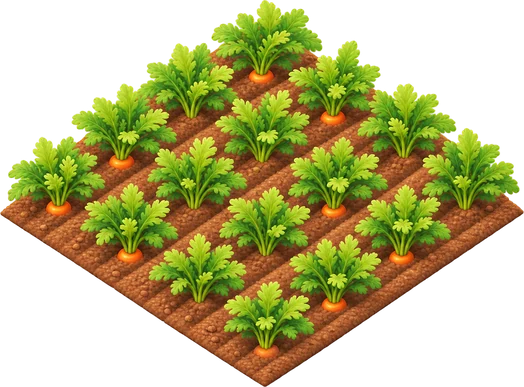
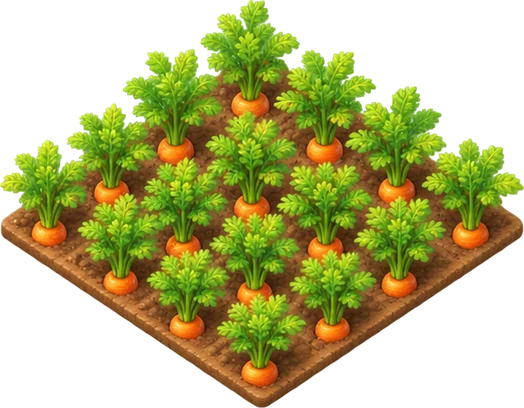
#00646: feat(まち): 町用の畑11種を2:1の絵に入れ替え、乗り物12点・離島の地面を追加(139種類)

diff --git a/frontend/src/components/spru/spru-assets.ts b/frontend/src/components/spru/spru-assets.ts
@@ -235,6 +235,18 @@ export const SPRU_ITEMS = {
   "beehive": { src: "/spru/items/beehive.webp", width: 200, height: 199 },
   "stream_curve": { src: "/spru/items/stream_curve.webp", width: 280, height: 275 },
   "stream_pool": { src: "/spru/items/stream_pool.webp", width: 300, height: 208 },
+  "car_red": { src: "/spru/items/car_red.webp", width: 231, height: 195 },
+  "taxi": { src: "/spru/items/taxi.webp", width: 231, height: 198 },
+  "motorbike": { src: "/spru/items/motorbike.webp", width: 196, height: 186 },
+  "ambulance": { src: "/spru/items/ambulance.webp", width: 249, height: 258 },
+  "bus_small": { src: "/spru/items/bus_small.webp", width: 373, height: 387 },
+  "fire_truck": { src: "/spru/items/fire_truck.webp", width: 347, height: 361 },
+  "delivery_truck": { src: "/spru/items/delivery_truck.webp", width: 356, height: 363 },
+  "tractor": { src: "/spru/items/tractor.webp", width: 320, height: 320 },
+  "train_engine": { src: "/spru/items/train_engine.webp", width: 444, height: 388 },
+  "hot_air_balloon": { src: "/spru/items/hot_air_balloon.webp", width: 249, height: 369 },
+  "sailboat": { src: "/spru/items/sailboat.webp", width: 267, height: 346 },
+  "cart_horse_free": { src: "/spru/items/cart_horse_free.webp", width: 249, height: 244 },
   "boat_large": { src: "/spru/items/boat_large.webp", width: 482, height: 301 },
   "tower": { src: "/spru/items/tower.webp", width: 345, height: 469 },
   "lighthouse": { src: "/spru/items/lighthouse.webp", width: 389, height: 421 },
@@ -305,17 +317,17 @@ export const SPRU_ITEMS = {
   "spru_house_lv2": { src: "/spru/items/spru_house_lv2.webp", width: 467, height: 373 },
   "spru_house_lv3": { src: "/spru/items/spru_house_lv3.webp", width: 524, height: 522 },
   "human_house": { src: "/spru/items/human_house.webp", width: 498, height: 462 },
-  "wheat_field": { src: "/spru/items/wheat_field.webp", width: 524, height: 372 },
-  "carrot_field": { src: "/spru/items/carrot_field.webp", width: 524, height: 387 },
-  "potato_field": { src: "/spru/items/potato_field.webp", width: 524, height: 377 },
-  "onion_field": { src: "/spru/items/onion_field.webp", width: 524, height: 405 },
-  "cabbage_field": { src: "/spru/items/cabbage_field.webp", width: 524, height: 387 },
-  "tomato_field": { src: "/spru/items/tomato_field.webp", width: 524, height: 452 },
-  "cucumber_field": { src: "/spru/items/cucumber_field.webp", width: 524, height: 478 },
-  "pumpkin_field": { src: "/spru/items/pumpkin_field.webp", width: 524, height: 452 },
-  "corn_field": { src: "/spru/items/corn_field.webp", width: 524, height: 487 },
-  "eggplant_field": { src: "/spru/items/eggplant_field.webp", width: 524, height: 482 },
-  "watermelon_field": { src: "/spru/items/watermelon_field.webp", width: 524, height: 457 },
+  "wheat_field": { src: "/spru/items/wheat_field.webp", width: 524, height: 433 },
+  "carrot_field": { src: "/spru/items/carrot_field.webp", width: 524, height: 408 },
+  "potato_field": { src: "/spru/items/potato_field.webp", width: 524, height: 399 },
+  "onion_field": { src: "/spru/items/onion_field.webp", width: 524, height: 437 },
+  "cabbage_field": { src: "/spru/items/cabbage_field.webp", width: 524, height: 391 },
+  "tomato_field": { src: "/spru/items/tomato_field.webp", width: 524, height: 419 },
+  "cucumber_field": { src: "/spru/items/cucumber_field.webp", width: 524, height: 472 },
+  "pumpkin_field": { src: "/spru/items/pumpkin_field.webp", width: 524, height: 413 },
+  "corn_field": { src: "/spru/items/corn_field.webp", width: 524, height: 504 },
+  "eggplant_field": { src: "/spru/items/eggplant_field.webp", width: 524, height: 473 },
+  "watermelon_field": { src: "/spru/items/watermelon_field.webp", width: 524, height: 420 },
   "zukan_fresh_bread_loaf": { src: "/spru/items/zukan_fresh_bread_loaf.webp", width: 192, height: 120 },
   "zukan_shokupan": { src: "/spru/items/zukan_shokupan.webp", width: 192, height: 171 },
   "zukan_baguette": { src: "/spru/items/zukan_baguette.webp", width: 192, height: 118 },

diff --git a/frontend/src/components/world/art-keys.ts b/frontend/src/components/world/art-keys.ts
@@ -133,6 +133,18 @@ export const ITEM_ART_KEYS = [
   "beehive",
   "stream_curve",
   "stream_pool",
+  "car_red",
+  "taxi",
+  "motorbike",
+  "ambulance",
+  "bus_small",
+  "fire_truck",
+  "delivery_truck",
+  "tractor",
+  "train_engine",
+  "hot_air_balloon",
+  "sailboat",
+  "cart_horse_free",
 ] as const;
 
 export type ItemArtKey = (typeof ITEM_ART_KEYS)[number];
@@ -285,6 +297,18 @@ export const ITEM_ART_LABELS: Record<ItemArtKey, string> = {
   beehive: "ミツバチの巣箱",
   stream_curve: "小川の曲がり",
   stream_pool: "小川の池",
+  car_red: "赤い車",
+  taxi: "タクシー",
+  motorbike: "スクーター",
+  ambulance: "救急車",
+  bus_small: "小さなバス",
+  fire_truck: "消防車",
+  delivery_truck: "配達トラック",
+  tractor: "トラクター",
+  train_engine: "汽車",
+  hot_air_balloon: "気球",
+  sailboat: "ヨット",
+  cart_horse_free: "花の荷車",
 };
 
 /** 絵のカテゴリ(設計書 2026-09-28-town-items 3-2)。config/world.php の asset_categories と必ず一致させる */
@@ -417,6 +441,18 @@ export const ITEM_ART_CATEGORIES: Record<ItemArtKey, ItemCategory> = {
   beehive: "decor",
   stream_curve: "nature",
   stream_pool: "nature",
+  car_red: "vehicle",
+  taxi: "vehicle",
+  motorbike: "vehicle",
+  ambulance: "vehicle",
+  bus_small: "vehicle",
+  fire_truck: "vehicle",
+  delivery_truck: "vehicle",
+  tractor: "vehicle",
+  train_engine: "vehicle",
+  hot_air_balloon: "vehicle",
+  sailboat: "vehicle",
+  cart_horse_free: "vehicle",
 };
 
 /** 管理画面の絵の選択肢の名前。カテゴリと、2×2なら大きさを添える(例: 「五重塔（名所・2×2）」) */
@@ -473,6 +509,11 @@ export const ASSET_FOOTPRINTS: Readonly<Partial<Record<ArtKey, number>>> = {
   corn_field: 2,
   eggplant_field: 2,
   watermelon_field: 2,
+  bus_small: 2,
+  fire_truck: 2,
+  delivery_truck: 2,
+  tractor: 2,
+  train_engine: 2,
   himeji_castle: 3,
   todaiji_hall: 3,
   shuri_castle: 3,

diff --git a/frontend/src/components/world/world-scene.tsx b/frontend/src/components/world/world-scene.tsx
@@ -55,6 +55,7 @@ const GROUND: Record<Ground, { tile: [string, string]; lip: [string, string] }> 
   hill: { tile: ["#c8eda9", "#bee69d"], lip: ["#9fd684", "#8cc672"] },
   riverbank: { tile: ["#a8d98e", "#9dd283"], lip: ["#7bbb62", "#6aab53"] },
   plateau: { tile: ["#cfe58f", "#c6df84"], lip: ["#a9c96b", "#97b95c"] },
+  islet: { tile: ["#f1e0a6", "#ead69a"], lip: ["#dcc27f", "#cdb26e"] },
 };
 const PATH_COLOR = "#f1dfbb";
 // 林・花畑の地面の絵が届くまでの色(設計書 2026-10-05-town-blend 4-2)

diff --git a/frontend/src/components/world/ground-art.ts b/frontend/src/components/world/ground-art.ts
@@ -16,6 +16,7 @@ export const GROUND_ART: Partial<Record<GroundArtKey, GroundArt>> = {
   hill: { src: "/spru/ground/hill.webp", size: 512 },
   riverbank: { src: "/spru/ground/riverbank.webp", size: 512 },
   plateau: { src: "/spru/ground/plateau.webp", size: 512 },
+  islet: { src: "/spru/ground/islet.webp", size: 512 },
   path: { src: "/spru/ground/path.webp", size: 512 },
   grove: { src: "/spru/ground/grove.webp", size: 512 },
   meadow: { src: "/spru/ground/meadow.webp", size: 512 },

diff --git a/frontend/src/components/world/types.ts b/frontend/src/components/world/types.ts
@@ -29,7 +29,7 @@ export type WorldItem = {
   mirrored?: boolean;
 };
 
-export type Ground = "grass" | "bamboo" | "sand" | "hill" | "riverbank" | "plateau";
+export type Ground = "grass" | "bamboo" | "sand" | "hill" | "riverbank" | "plateau" | "islet";
 
 /** 土地の区画(設計書3-1)。unlocked はこの人のレベルで開いているか */
 export type WorldPlot = {

diff --git a/config/world.php b/config/world.php
@@ -70,7 +70,7 @@ return [
         // 町らしさを足す追加分(2026-10-12。花・木・街の備品・暮らし・名所・家の成長・畑)
         'lavender', 'cosmos', 'hydrangea', 'rose_bed', 'hedge_square', 'topiary_ball', 'ginkgo', 'birch', 'plum_tree', 'fir_tree', 'willow', 'small_pond', 'wooden_fence', 'low_stone_wall', 'signpost', 'drinking_fountain', 'flower_arch', 'trash_bin', 'scarecrow', 'handcart', 'barrels_crates', 'firewood_pile', 'haystack', 'laundry_line', 'sky_tower', 'saku_blossom_tower', 'golden_leaf_temple', 'spru_house_lv2', 'spru_house_lv3', 'human_house', 'wheat_field', 'carrot_field', 'potato_field', 'onion_field', 'cabbage_field', 'tomato_field', 'cucumber_field', 'pumpkin_field', 'corn_field', 'eggplant_field', 'watermelon_field', 'himeji_castle', 'todaiji_hall', 'shuri_castle',
         // 町らしさの追加2(2026-10-13。柵・塀の向き、小さな建物、小さな生き物)
-        'wooden_fence_b', 'low_stone_wall_b', 'fence_corner', 'fence_gate', 'stone_wall_corner', 'hedge_long', 'flower_shop', 'clinic', 'small_school', 'post_office', 'station_hut', 'fire_station', 'cat_sitting', 'dog_sitting', 'hen', 'sheep', 'birdhouse', 'beehive', 'stream_curve', 'stream_pool',
+        'wooden_fence_b', 'low_stone_wall_b', 'fence_corner', 'fence_gate', 'stone_wall_corner', 'hedge_long', 'flower_shop', 'clinic', 'small_school', 'post_office', 'station_hut', 'fire_station', 'cat_sitting', 'dog_sitting', 'hen', 'sheep', 'birdhouse', 'beehive', 'stream_curve', 'stream_pool', 'car_red', 'taxi', 'motorbike', 'ambulance', 'bus_small', 'fire_truck', 'delivery_truck', 'tractor', 'train_engine', 'hot_air_balloon', 'sailboat', 'cart_horse_free',
     ],
 
     /*
@@ -87,7 +87,7 @@ return [
         'kinkakuji' => 2, 'sungnyemun' => 2, 'arc_de_triomphe' => 2, 'big_ben' => 2,
         'large_tree' => 2, 'greengrocer' => 2, 'fish_shop' => 2, 'meat_shop' => 2, 'produce_shop' => 2,
         'chief_hall' => 3, 'stone_tower_hall' => 2, 'windmill_garden' => 3, 'spru_mall' => 3, 'saku_mall' => 3,
-        'sky_tower' => 2, 'saku_blossom_tower' => 2, 'golden_leaf_temple' => 2, 'spru_house_lv2' => 2, 'spru_house_lv3' => 2, 'human_house' => 2, 'wheat_field' => 2, 'carrot_field' => 2, 'potato_field' => 2, 'onion_field' => 2, 'cabbage_field' => 2, 'tomato_field' => 2, 'cucumber_field' => 2, 'pumpkin_field' => 2, 'corn_field' => 2, 'eggplant_field' => 2, 'watermelon_field' => 2, 'himeji_castle' => 3, 'todaiji_hall' => 3, 'shuri_castle' => 3, 'flower_shop' => 2, 'clinic' => 2, 'small_school' => 2, 'post_office' => 2, 'station_hut' => 2, 'fire_station' => 2,
+        'sky_tower' => 2, 'saku_blossom_tower' => 2, 'golden_leaf_temple' => 2, 'spru_house_lv2' => 2, 'spru_house_lv3' => 2, 'human_house' => 2, 'wheat_field' => 2, 'carrot_field' => 2, 'potato_field' => 2, 'onion_field' => 2, 'cabbage_field' => 2, 'tomato_field' => 2, 'cucumber_field' => 2, 'pumpkin_field' => 2, 'corn_field' => 2, 'eggplant_field' => 2, 'watermelon_field' => 2, 'himeji_castle' => 3, 'bus_small' => 2, 'fire_truck' => 2, 'delivery_truck' => 2, 'tractor' => 2, 'train_engine' => 2,  'todaiji_hall' => 3, 'shuri_castle' => 3, 'flower_shop' => 2, 'clinic' => 2, 'small_school' => 2, 'post_office' => 2, 'station_hut' => 2, 'fire_station' => 2,
     ],
 
     /*
@@ -117,7 +117,7 @@ return [
         'greengrocer' => 'house', 'fish_shop' => 'house', 'meat_shop' => 'house', 'produce_shop' => 'house',
         'chief_hall' => 'landmark', 'stone_tower_hall' => 'landmark', 'windmill_garden' => 'landmark', 'spru_mall' => 'landmark',
         'saku_mall' => 'landmark',
-        'lavender' => 'nature', 'cosmos' => 'nature', 'hydrangea' => 'nature', 'rose_bed' => 'nature', 'hedge_square' => 'nature', 'topiary_ball' => 'nature', 'ginkgo' => 'nature', 'birch' => 'nature', 'plum_tree' => 'nature', 'fir_tree' => 'nature', 'willow' => 'nature', 'small_pond' => 'nature', 'wooden_fence' => 'decor', 'low_stone_wall' => 'decor', 'signpost' => 'decor', 'drinking_fountain' => 'decor', 'flower_arch' => 'decor', 'trash_bin' => 'decor', 'scarecrow' => 'decor', 'handcart' => 'decor', 'barrels_crates' => 'decor', 'firewood_pile' => 'decor', 'haystack' => 'decor', 'laundry_line' => 'decor', 'sky_tower' => 'landmark', 'saku_blossom_tower' => 'landmark', 'golden_leaf_temple' => 'landmark', 'spru_house_lv2' => 'house', 'spru_house_lv3' => 'house', 'human_house' => 'house', 'wheat_field' => 'nature', 'carrot_field' => 'nature', 'potato_field' => 'nature', 'onion_field' => 'nature', 'cabbage_field' => 'nature', 'tomato_field' => 'nature', 'cucumber_field' => 'nature', 'pumpkin_field' => 'nature', 'corn_field' => 'nature', 'eggplant_field' => 'nature', 'watermelon_field' => 'nature', 'himeji_castle' => 'landmark', 'todaiji_hall' => 'landmark', 'shuri_castle' => 'landmark', 'wooden_fence_b' => 'decor', 'low_stone_wall_b' => 'decor', 'fence_corner' => 'decor', 'fence_gate' => 'decor', 'stone_wall_corner' => 'decor', 'hedge_long' => 'nature', 'flower_shop' => 'house', 'clinic' => 'house', 'small_school' => 'house', 'post_office' => 'house', 'station_hut' => 'house', 'fire_station' => 'house', 'cat_sitting' => 'nature', 'dog_sitting' => 'nature', 'hen' => 'nature', 'sheep' => 'nature', 'birdhouse' => 'decor', 'beehive' => 'decor', 'stream_curve' => 'nature', 'stream_pool' => 'nature',
+        'lavender' => 'nature', 'cosmos' => 'nature', 'hydrangea' => 'nature', 'rose_bed' => 'nature', 'hedge_square' => 'nature', 'topiary_ball' => 'nature', 'ginkgo' => 'nature', 'birch' => 'nature', 'plum_tree' => 'nature', 'fir_tree' => 'nature', 'willow' => 'nature', 'small_pond' => 'nature', 'wooden_fence' => 'decor', 'low_stone_wall' => 'decor', 'signpost' => 'decor', 'drinking_fountain' => 'decor', 'flower_arch' => 'decor', 'trash_bin' => 'decor', 'scarecrow' => 'decor', 'handcart' => 'decor', 'barrels_crates' => 'decor', 'firewood_pile' => 'decor', 'haystack' => 'decor', 'laundry_line' => 'decor', 'sky_tower' => 'landmark', 'saku_blossom_tower' => 'landmark', 'golden_leaf_temple' => 'landmark', 'spru_house_lv2' => 'house', 'spru_house_lv3' => 'house', 'human_house' => 'house', 'wheat_field' => 'nature', 'carrot_field' => 'nature', 'potato_field' => 'nature', 'onion_field' => 'nature', 'cabbage_field' => 'nature', 'tomato_field' => 'nature', 'cucumber_field' => 'nature', 'pumpkin_field' => 'nature', 'corn_field' => 'nature', 'eggplant_field' => 'nature', 'watermelon_field' => 'nature', 'himeji_castle' => 'landmark', 'car_red' => 'vehicle', 'taxi' => 'vehicle', 'motorbike' => 'vehicle', 'ambulance' => 'vehicle', 'bus_small' => 'vehicle', 'fire_truck' => 'vehicle', 'delivery_truck' => 'vehicle', 'tractor' => 'vehicle', 'train_engine' => 'vehicle', 'hot_air_balloon' => 'vehicle', 'sailboat' => 'vehicle', 'cart_horse_free' => 'vehicle',  'todaiji_hall' => 'landmark', 'shuri_castle' => 'landmark', 'wooden_fence_b' => 'decor', 'low_stone_wall_b' => 'decor', 'fence_corner' => 'decor', 'fence_gate' => 'decor', 'stone_wall_corner' => 'decor', 'hedge_long' => 'nature', 'flower_shop' => 'house', 'clinic' => 'house', 'small_school' => 'house', 'post_office' => 'house', 'station_hut' => 'house', 'fire_station' => 'house', 'cat_sitting' => 'nature', 'dog_sitting' => 'nature', 'hen' => 'nature', 'sheep' => 'nature', 'birdhouse' => 'decor', 'beehive' => 'decor', 'stream_curve' => 'nature', 'stream_pool' => 'nature',
     ],
 
     /*
@@ -134,7 +134,7 @@ return [
             ['key' => 'hill', 'name' => '丘', 'x' => 7, 'y' => 7, 'w' => 5, 'h' => 5, 'min_level' => 15, 'ground' => 'hill'],
             ['key' => 'river', 'name' => '川辺', 'x' => 12, 'y' => 0, 'w' => 5, 'h' => 12, 'min_level' => 20, 'ground' => 'riverbank'],
             ['key' => 'plateau', 'name' => '高原', 'x' => 0, 'y' => 12, 'w' => 12, 'h' => 5, 'min_level' => 25, 'ground' => 'plateau'],
-            ['key' => 'island', 'name' => '離島', 'x' => 12, 'y' => 12, 'w' => 5, 'h' => 5, 'min_level' => 30, 'ground' => 'sand'],
+            ['key' => 'island', 'name' => '離島', 'x' => 12, 'y' => 12, 'w' => 5, 'h' => 5, 'min_level' => 30, 'ground' => 'islet'],
         ],
         'landmarks' => [
             ['key' => 'stone_lantern', 'x' => 2, 'y' => 0],

diff --git a/database/seeders/WorldItemSeeder.php b/database/seeders/WorldItemSeeder.php
@@ -149,6 +149,19 @@ class WorldItemSeeder extends Seeder
             ['name' => 'ミツバチの巣箱', 'price' => 50, 'min_level' => 4, 'asset_key' => 'beehive'],
             ['name' => '小川の曲がり', 'price' => 50, 'min_level' => 5, 'asset_key' => 'stream_curve'],
             ['name' => '小川の池', 'price' => 60, 'min_level' => 6, 'asset_key' => 'stream_pool'],
+            // 町の乗り物(2026-10-13)。2×2は大きな乗り物
+            ['name' => '赤い車', 'price' => 90, 'min_level' => 6, 'asset_key' => 'car_red'],
+            ['name' => 'タクシー', 'price' => 110, 'min_level' => 7, 'asset_key' => 'taxi'],
+            ['name' => 'スクーター', 'price' => 100, 'min_level' => 7, 'asset_key' => 'motorbike'],
+            ['name' => '救急車', 'price' => 200, 'min_level' => 9, 'asset_key' => 'ambulance'],
+            ['name' => '小さなバス', 'price' => 260, 'min_level' => 9, 'asset_key' => 'bus_small'],
+            ['name' => '消防車', 'price' => 300, 'min_level' => 10, 'asset_key' => 'fire_truck'],
+            ['name' => '配達トラック', 'price' => 240, 'min_level' => 8, 'asset_key' => 'delivery_truck'],
+            ['name' => 'トラクター', 'price' => 220, 'min_level' => 6, 'asset_key' => 'tractor'],
+            ['name' => '汽車', 'price' => 450, 'min_level' => 13, 'asset_key' => 'train_engine'],
+            ['name' => '気球', 'price' => 500, 'min_level' => 14, 'asset_key' => 'hot_air_balloon'],
+            ['name' => 'ヨット', 'price' => 220, 'min_level' => 8, 'asset_key' => 'sailboat'],
+            ['name' => '花の荷車', 'price' => 60, 'min_level' => 4, 'asset_key' => 'cart_horse_free'],
         ];
 
         foreach ($items as $item) {

diff --git a/tests/Feature/WorldBuildingTest.php b/tests/Feature/WorldBuildingTest.php
@@ -161,7 +161,7 @@ it('町のAPIのバッグのアイテムにも大きさが付く', function () {
     $this->getJson('/api/world')->assertOk()->assertJsonPath('bag.0.footprint', 2);
 });
 
-it('品ぞろえのシーダーで、2×2の建物40・3×3の建物9(モール2つ・村長の家・風車の庭・城・五重塔・姫路城・東大寺・首里城)を含む127種類がそろい、2回実行しても増えない', function () {
+it('品ぞろえのシーダーで、2×2の建物45・3×3の建物9(モール2つ・村長の家・風車の庭・城・五重塔・姫路城・東大寺・首里城)を含む139種類がそろい、2回実行しても増えない', function () {
     $this->seed(WorldItemSeeder::class);
     $this->seed(WorldItemSeeder::class);
 
@@ -169,8 +169,8 @@ it('品ぞろえのシーダーで、2×2の建物40・3×3の建物9(モール2
     $big = $items->filter(fn (ShopItem $item) => $item->footprint() === 2)->pluck('name');
     $large = $items->filter(fn (ShopItem $item) => $item->footprint() === 3)->pluck('name');
 
-    expect($items)->toHaveCount(127)
-        ->and($big)->toHaveCount(40)
+    expect($items)->toHaveCount(139)
+        ->and($big)->toHaveCount(45)
         ->and($large)->toHaveCount(9)
         ->and($large->all())->toContain('お城', '五重塔', '姫路城', '東大寺', '首里城')
         ->and($big->all())->toContain('カフェ', 'タワー', 'パン屋', 'ビッグ・ベン', '凱旋門', '南大門', '和風の家', '噴水', '大きな船', '灯台', '金閣寺')

diff --git a/tools/ground-assets/make_ground.py b/tools/ground-assets/make_ground.py
@@ -32,6 +32,7 @@ SOURCES = {
     "meadow": "approved/ground/ground_flower_meadow_01.png",
     "riverbank": "approved/ground/ground_riverbank_01.png",
     "plateau": "approved/ground/ground_plateau_01.png",
+    "islet": "approved/ground/ground_islet_01.png",
     # 国の道(docs/design/2026-10-05-road-style-design.md)。キーは road_{旅の行き先のキー}
     "road_fr": "approved/road/road_france_01.png",
     "road_gb": "approved/road/road_uk_01.png",
